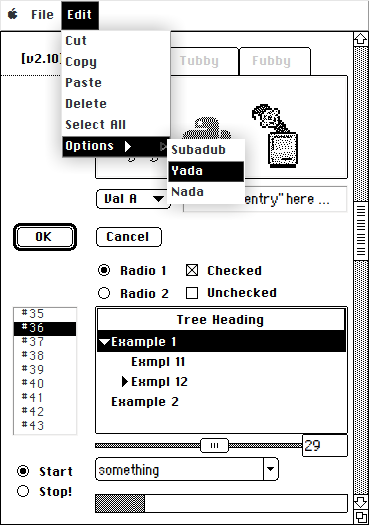
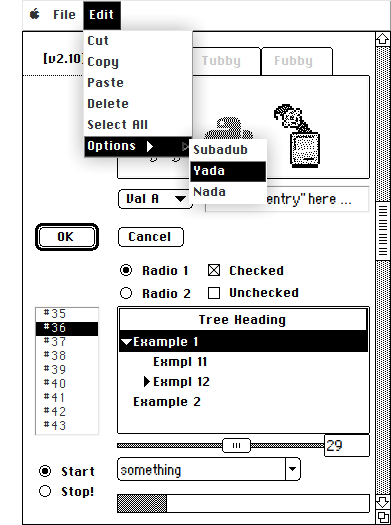
README update

diff --git a/setup_zoomDocProc v0.7.0.py b/setup_zoomDocProc v0.7.0.py
@@ -118,7 +118,7 @@ def setup_titled_menued_slate():
         if os.path.exists(a) and os.path.getsize(a) > 0: # Let's READ it
             _fl = open(a, "r") 
             _ln = _fl.readlines()        
-            oo = _ln[1]           # on/off, True or False   
+            oo = _ln[1]  # 2nd line: on/off, True/False   
             return oo     
         else:    # Write a new config file from scratch with temporary truth
             fl = open(a, "w")

diff --git a/README.md b/README.md
@@ -18,6 +18,8 @@ The inherited license is Tcl  <https://www.tcl-lang.org/software/tcltk/license.h
 
 ![ ](./meta/Finder_demo_v2.10_a.png)
 ![ ](./meta/Finder_demo_v2.10_b.png)
-![ ](./meta/custom_cursors.png)
-
 ![ ](./meta/koomandoo_ls.png)
+
+![ ][def]
+
+[def]: ./meta/setup_zoomDocProc_v0.7.0.png
